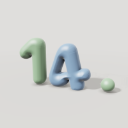
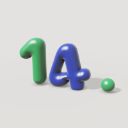
channel pfp, green and dark blue

Changed region(s): [[0.1562, 0.2812, 0.7188, 0.7188], [0.7812, 0.5938, 0.9062, 0.7188]]

diff --git a/index.html b/index.html
@@ -52,7 +52,7 @@
       <h1 class="name" aria-label="nav!"><span style="--l: 0">n</span><span style="--l: 1">a</span><span style="--l: 2">v</span><span style="--l: 3">!</span></h1>
       <ul>
         <li class="in" style="--i: 2">perth, australia</li>
-        <li class="in" style="--i: 3">i build random stuff and film it for <span class="pfp" aria-hidden="true"><img src="assets/channel.png?v=5" alt="" width="64" height="64" /></span><a href="https://youtube.com/@regretably">@regretably</a></li>
+        <li class="in" style="--i: 3">i build random stuff and film it for <span class="pfp" aria-hidden="true"><img src="assets/channel.png?v=6" alt="" width="64" height="64" /></span><a href="https://youtube.com/@regretably">@regretably</a></li>
         <li class="in" style="--i: 4">captain of team sami @ <a href="https://hackclub.com">hack club</a></li>
       </ul>
       <ul>
